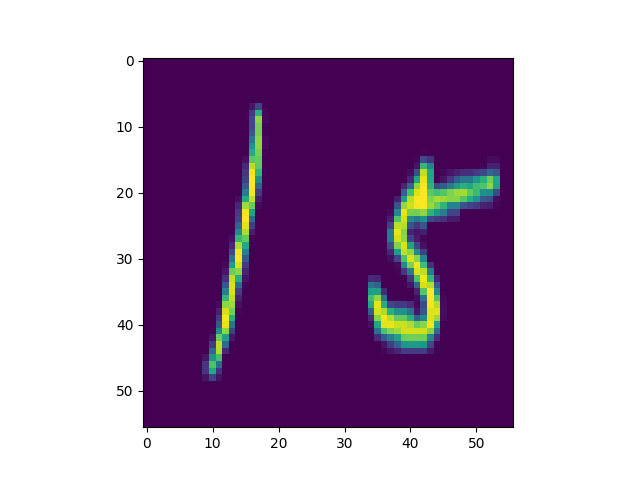
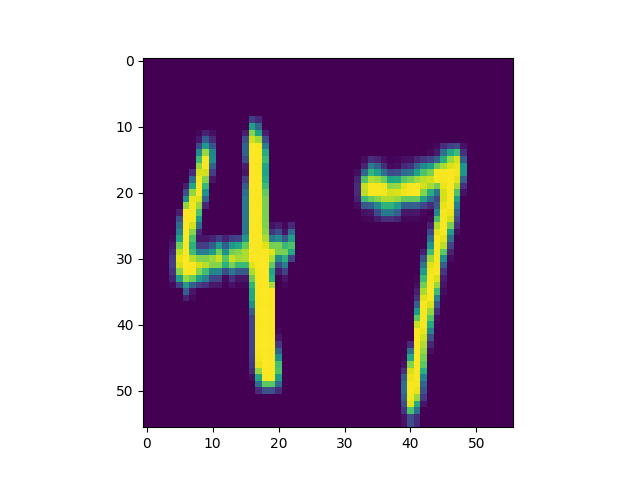
code changes - save image

Changed region(s): [[0.25, 0.2188, 0.4688, 0.8438], [0.5312, 0.2812, 0.7812, 0.9062]]

diff --git a/sum_digits.py b/sum_digits.py
@@ -383,6 +383,10 @@ if __name__ == "__main__":
     # Inference - this will use the model which is saved in 'model/mnist_model'
     model_inference = Model_Inference(no_of_digits = 2)
     img_1, img_2, sum_of_numbers = model_inference.sum_numbers_genereator_images()
+    plt.imshow(img_1.squeeze())
+    plt.savefig('output/image_1.png')
+    plt.imshow(img_2.squeeze())
+    plt.savefig('output/image_2.png')
 
 
 
